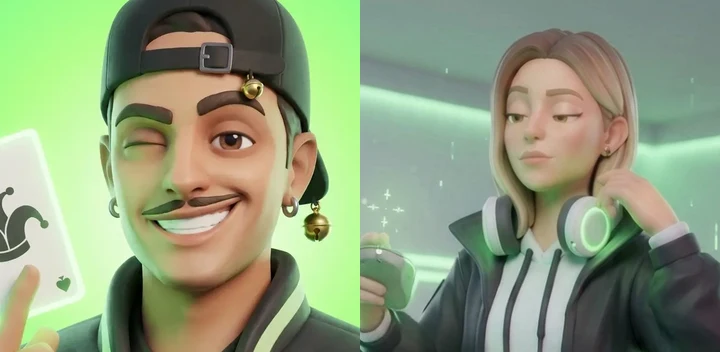
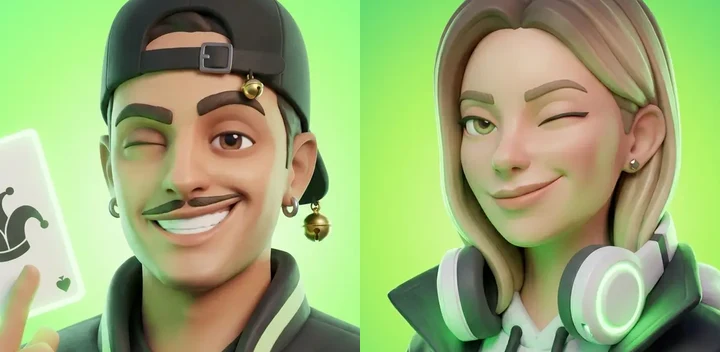
Fotos de perfil certas da segunda personagem (do Figma)

diff --git a/index.html b/index.html
@@ -13,11 +13,11 @@
 <link rel="preconnect" href="https://fonts.googleapis.com">
 <link rel="preconnect" href="https://fonts.gstatic.com" crossorigin>
 <link rel="stylesheet" href="https://fonts.googleapis.com/css2?family=Inter:wght@400;500;600;700&family=Sora:wght@600;700;800&display=swap">
-<link rel="stylesheet" href="css/tokens.css?v=loud-10272358">
-<link rel="stylesheet" href="css/ui.css?v=loud-10272358">
-<link rel="stylesheet" href="css/screens.css?v=loud-10272358">
-<link rel="stylesheet" href="css/game.css?v=loud-10272358">
-<link rel="stylesheet" href="css/desk.css?v=loud-10272358">
+<link rel="stylesheet" href="css/tokens.css?v=loud-10280004">
+<link rel="stylesheet" href="css/ui.css?v=loud-10280004">
+<link rel="stylesheet" href="css/screens.css?v=loud-10280004">
+<link rel="stylesheet" href="css/game.css?v=loud-10280004">
+<link rel="stylesheet" href="css/desk.css?v=loud-10280004">
 </head>
 <body>
 <svg width="0" height="0" style="position:absolute" aria-hidden="true">
@@ -73,15 +73,15 @@
   </div>
 </div></div>
 
-<script src="js/core.js?v=loud-10272358"></script>
-<script src="js/ui.js?v=loud-10272358"></script>
-<script src="js/screens.js?v=loud-10272358"></script>
-<script src="js/loja.js?v=loud-10272358"></script>
-<script src="js/social.js?v=loud-10272358"></script>
-<script src="js/battles.js?v=loud-10272358"></script>
-<script src="js/games.js?v=loud-10272358"></script>
-<script src="js/sinuca.js?v=loud-10272358"></script>
-<script src="js/desk.js?v=loud-10272358"></script>
-<script src="js/boot.js?v=loud-10272358"></script>
+<script src="js/core.js?v=loud-10280004"></script>
+<script src="js/ui.js?v=loud-10280004"></script>
+<script src="js/screens.js?v=loud-10280004"></script>
+<script src="js/loja.js?v=loud-10280004"></script>
+<script src="js/social.js?v=loud-10280004"></script>
+<script src="js/battles.js?v=loud-10280004"></script>
+<script src="js/games.js?v=loud-10280004"></script>
+<script src="js/sinuca.js?v=loud-10280004"></script>
+<script src="js/desk.js?v=loud-10280004"></script>
+<script src="js/boot.js?v=loud-10280004"></script>
 </body>
 </html>

diff --git a/js/sinuca.js b/js/sinuca.js
@@ -10,7 +10,7 @@ function startSinuca(tableId) {
   const q = new URLSearchParams({nick: ST.nick, crew: ST.crew, g: ST.g, opp: OPP.n, mesa: tableId, q: '0'});
   const w = document.createElement('section');
   w.className = 'scr sinuca-scr'; w.id = 'sinucaWrap';
-  w.innerHTML = `<iframe id="sinucaFrame" title="Sinuca · Bola 8" allow="autoplay; fullscreen" src="sinuca/index.html?v=loud-10272358#embed=${ST.stake}&${q}"></iframe>`;
+  w.innerHTML = `<iframe id="sinucaFrame" title="Sinuca · Bola 8" allow="autoplay; fullscreen" src="sinuca/index.html?v=loud-10280004#embed=${ST.stake}&${q}"></iframe>`;
   closeSheet(); closeNotifs(); pauseViewVideos();
   $('#view').hidden = true; $('#scr-game').hidden = true;
   $('#app').appendChild(w);
